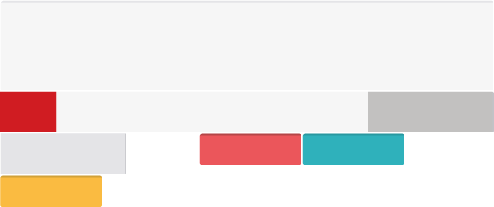
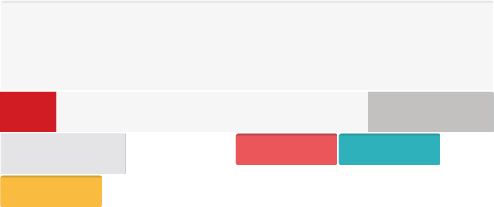
Changes

Changed region(s): [[0.8198, 0.6377, 0.9109, 0.8116], [0.6073, 0.6377, 0.6984, 0.8116], [0.3947, 0.6377, 0.4858, 0.8116]]

diff --git a/app/assets/stylesheets/partials/_slider_navbar.css.scss b/app/assets/stylesheets/partials/_slider_navbar.css.scss
@@ -3,7 +3,7 @@ $slider-navbar-width: 200px;
 .pr-slider {
   bottom: 0;
   right: 0;
-  height: 90px;
+  // height: 90px;
   width: 700px;
   position: fixed;
   left: 0;

diff --git a/app/assets/stylesheets/course/templates/graphic_table.css.scss b/app/assets/stylesheets/course/templates/graphic_table.css.scss
@@ -38,6 +38,10 @@
 		}
 	}
 
+	.graphic-container > div {
+		float: left;
+	}
+
 	.second-template {
 		margin-top: 10px;
 
